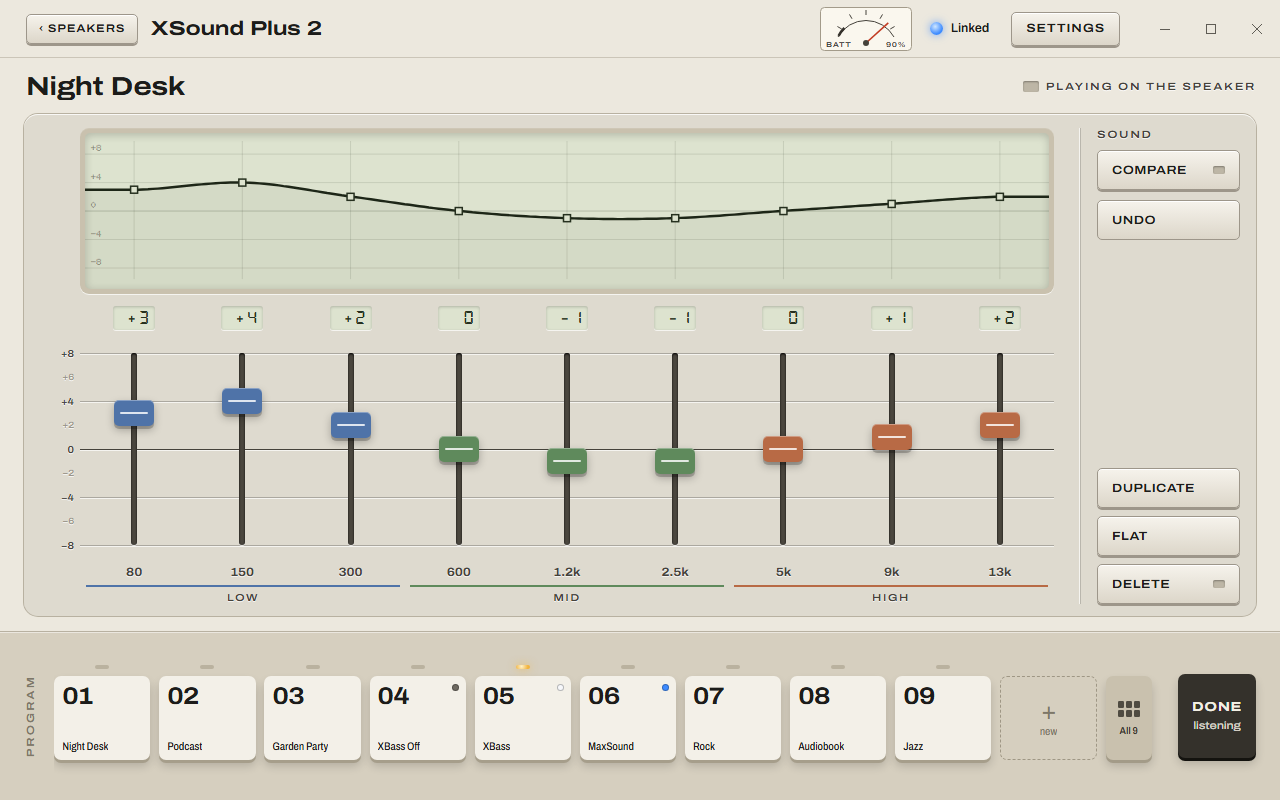
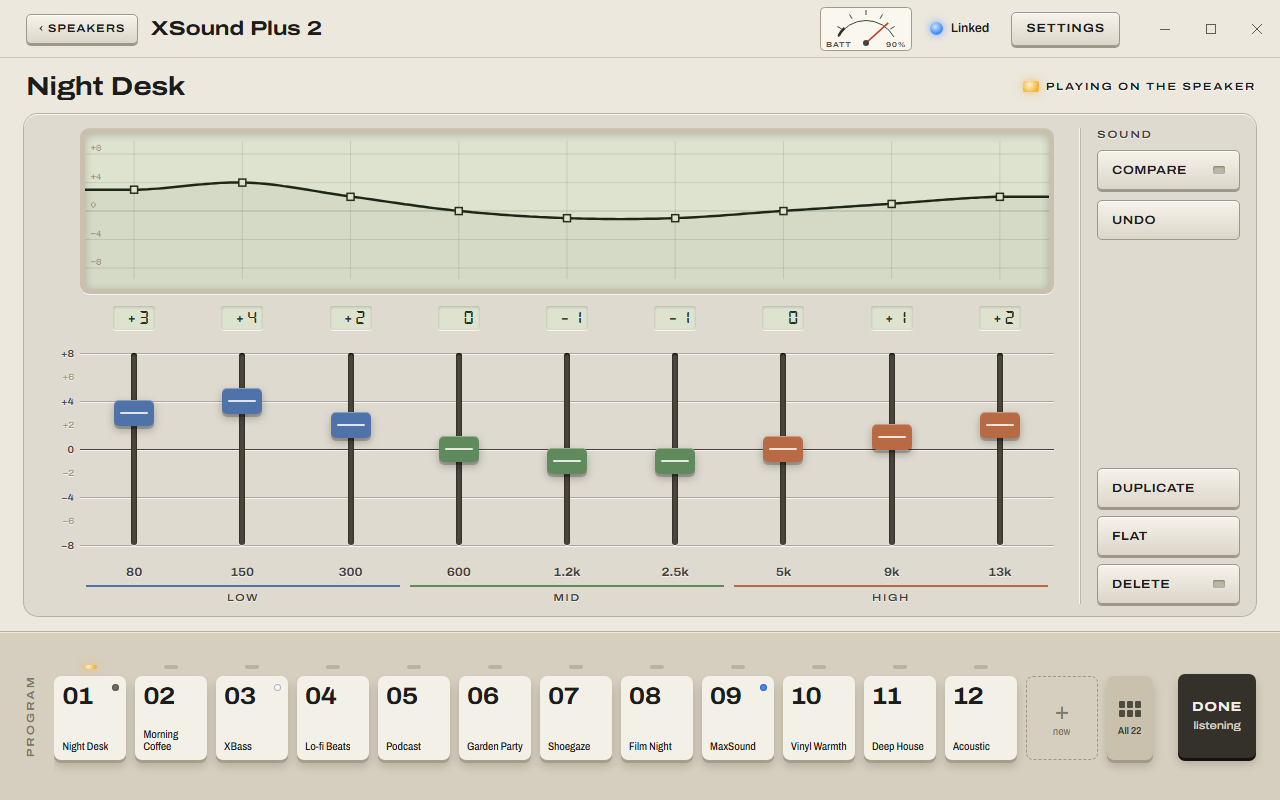
README: screenshots with a 22-program showcase library
The simulator's ?showcase seeds sixteen named programs among the six factory presets, with Night Desk playing and on the speaker's first light, so the screenshots show a full bar and library.

diff --git a/app/js/store.js b/app/js/store.js
@@ -6,10 +6,22 @@ const M=Model,subs=new Set();
 let speaker=null,library=null,settings={},speakers=null,bootOver=false;
 setTimeout(()=>{bootOver=true;emit();},4000);
 const emit=()=>subs.forEach(fn=>{try{fn();}catch(e){Bridge.report(e);}});
+// ?showcase (browser mock, README screenshots): a lived-in library of 22 programs, sixteen of your own among the
+// six factory presets, in an order someone would keep (bar first, then the rest).
+const SHOWCASE=[['Night Desk',[3,4,2,0,-1,-1,0,1,2]],['Morning Coffee',[1,1,0,0,1,2,2,1,0]],['Lo-fi Beats',[4,3,1,0,-1,-2,-2,-3,-4]],
+  ['Podcast',[-3,-2,0,2,3,3,1,-1,-2]],['Garden Party',[5,4,1,-1,0,1,2,4,3]],['Shoegaze',[2,3,1,-2,-3,-1,2,3,2]],
+  ['Film Night',[4,3,0,-1,1,2,1,2,3]],['Vinyl Warmth',[3,2,2,1,0,-1,-2,-2,-3]],['Deep House',[6,5,2,-1,-2,0,1,2,2]],
+  ['Acoustic',[0,1,2,2,1,2,3,2,1]],['Workout',[6,5,2,0,-1,1,3,4,4]],['Classical Hall',[1,1,0,-1,0,1,2,3,3]],
+  ['Soul',[2,3,3,1,0,1,1,0,-1]],['Gaming',[3,2,0,-2,0,2,4,3,2]],['Rain Sounds',[-2,-1,0,1,2,1,-1,-3,-4]],['Kitchen Radio',[-1,0,1,2,3,3,2,0,-1]]];
+const SHOWCASE_ORDER=['Night Desk','Morning Coffee','f1','Lo-fi Beats','Podcast','Garden Party','Shoegaze','Film Night','f3','Vinyl Warmth',
+  'Deep House','Acoustic','Workout','Classical Hall','Soul','Gaming','Rain Sounds','Kitchen Radio','f0','f4','f2','f5'];
 // The app starts with an empty library; the browser mock gets a few profiles to work with.
 function seed(){
   let lib=M.emptyLibrary();
   if(Bridge.native)return lib;
+  if(/[?&]showcase/.test(location.search)){const keys={};
+    for(const [name,bands] of SHOWCASE){const r=M.createProfile(lib,{name});lib=r.library;const p=lib.profiles.at(-1);p.bands=bands;keys[name]=p.key;}
+    lib.order=SHOWCASE_ORDER.map(k=>keys[k]||k);return lib;}
   for(const [name,bands] of [['Night Desk',[3,4,2,0,-1,-1,0,1,2]],['Podcast',[-3,-2,0,2,3,3,1,-1,-2]],['Garden Party',[5,4,1,-1,0,1,2,4,3]],
     // ?many fills the row, to check how a full bank behaves
     ...(/[?&]many/.test(location.search)?['Late Night','Vocals','Outdoor','Bass Walk','Film','Piano','Desk 2','Lo-fi','Bright']:[]).map((n,i)=>[n,[i%5-2,1,0,-1,i%3,1,2,-i%4,1]])]){

diff --git a/app/js/mock-backend.js b/app/js/mock-backend.js
@@ -24,6 +24,8 @@ PAIRED.six=[...PAIRED.two,
   {name:'Tribit StormBox Micro 2 — Kitchen Counter',model:'StormBox Micro 2',address:'00:11:22:33:44:04',connected:false,supported:false},
   {name:'Tribit XSound Mega',model:'XSound Mega',address:'00:11:22:33:44:05',connected:true,supported:false},
   {name:"Kanu's XSound Plus 2 Bedroom",model:'XSound Plus 2',address:'00:11:22:33:44:06',connected:false,supported:true}];
+// ?showcase (with store.js's showcase library): the speaker plays Night Desk, which is also on its first light.
+if(/[?&]showcase/.test(location.search)){const nd=[3,4,2,0,-1,-1,0,1,2];Object.assign(sim.speaker,{preset:CUSTOM,bands:nd.slice(),buttons:[{preset:CUSTOM,bands:nd.slice()},{preset:1},{preset:3}]});}
 sim.settings.startup=(location.search.match(/[?&]startup=([\w-]+)/)||[])[1]||sim.settings.startup;sim.paired=structuredClone(PAIRED[(location.search.match(/[?&]speakers=(\w+)/)||[])[1]]||PAIRED.one);
 sim.address=sim.paired.find(d=>d.supported)?.address||'';
 // States for screenshots: ?scene=compare (a moved fader, Compare on, a hovered channel) and ?scene=menu

diff --git a/README.md b/README.md
@@ -174,6 +174,7 @@ both for the updater to offer it.
     the simulator's controls.
   - Query options set up other states, such as `?offline`, `?speakers=two`, `?uptodate`, `?music` and
     `?scene=compare`. They are listed in [app/js/mock-backend.js](app/js/mock-backend.js).
+  - `?showcase` fills the library with 22 programs, as in the screenshots above.
   - `?smoke` runs a scripted pass over the main flows.
 - **The host** is [src/app.cpp](src/app.cpp): the speaker link ([src/controller.hpp](src/controller.hpp)),
   the widget provider, the tray, and the updater ([src/updates.hpp](src/updates.hpp)).
